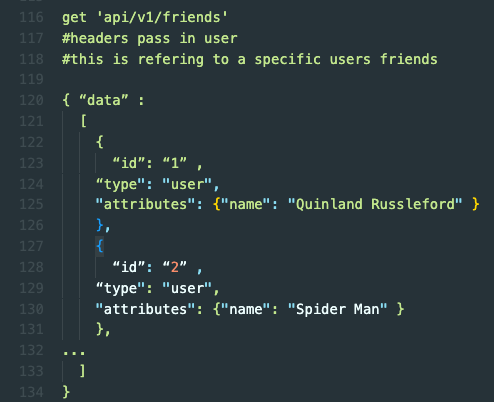
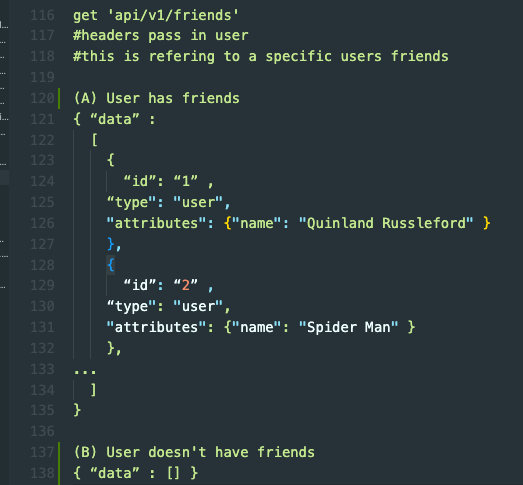
small change to user having no friends documentation

diff --git a/app/assets/endpoints.rb b/app/assets/endpoints.rb
@@ -117,6 +117,7 @@ get 'api/v1/friends'
 #headers pass in user
 #this is refering to a specific users friends
 
+(A) User has friends
 { “data” : 
 	[
 		{ 
@@ -132,6 +133,10 @@ get 'api/v1/friends'
 ...
 	]
 }
+
+(B) User doesn't have friends
+{ “data” : [] }
+
 
 
 
